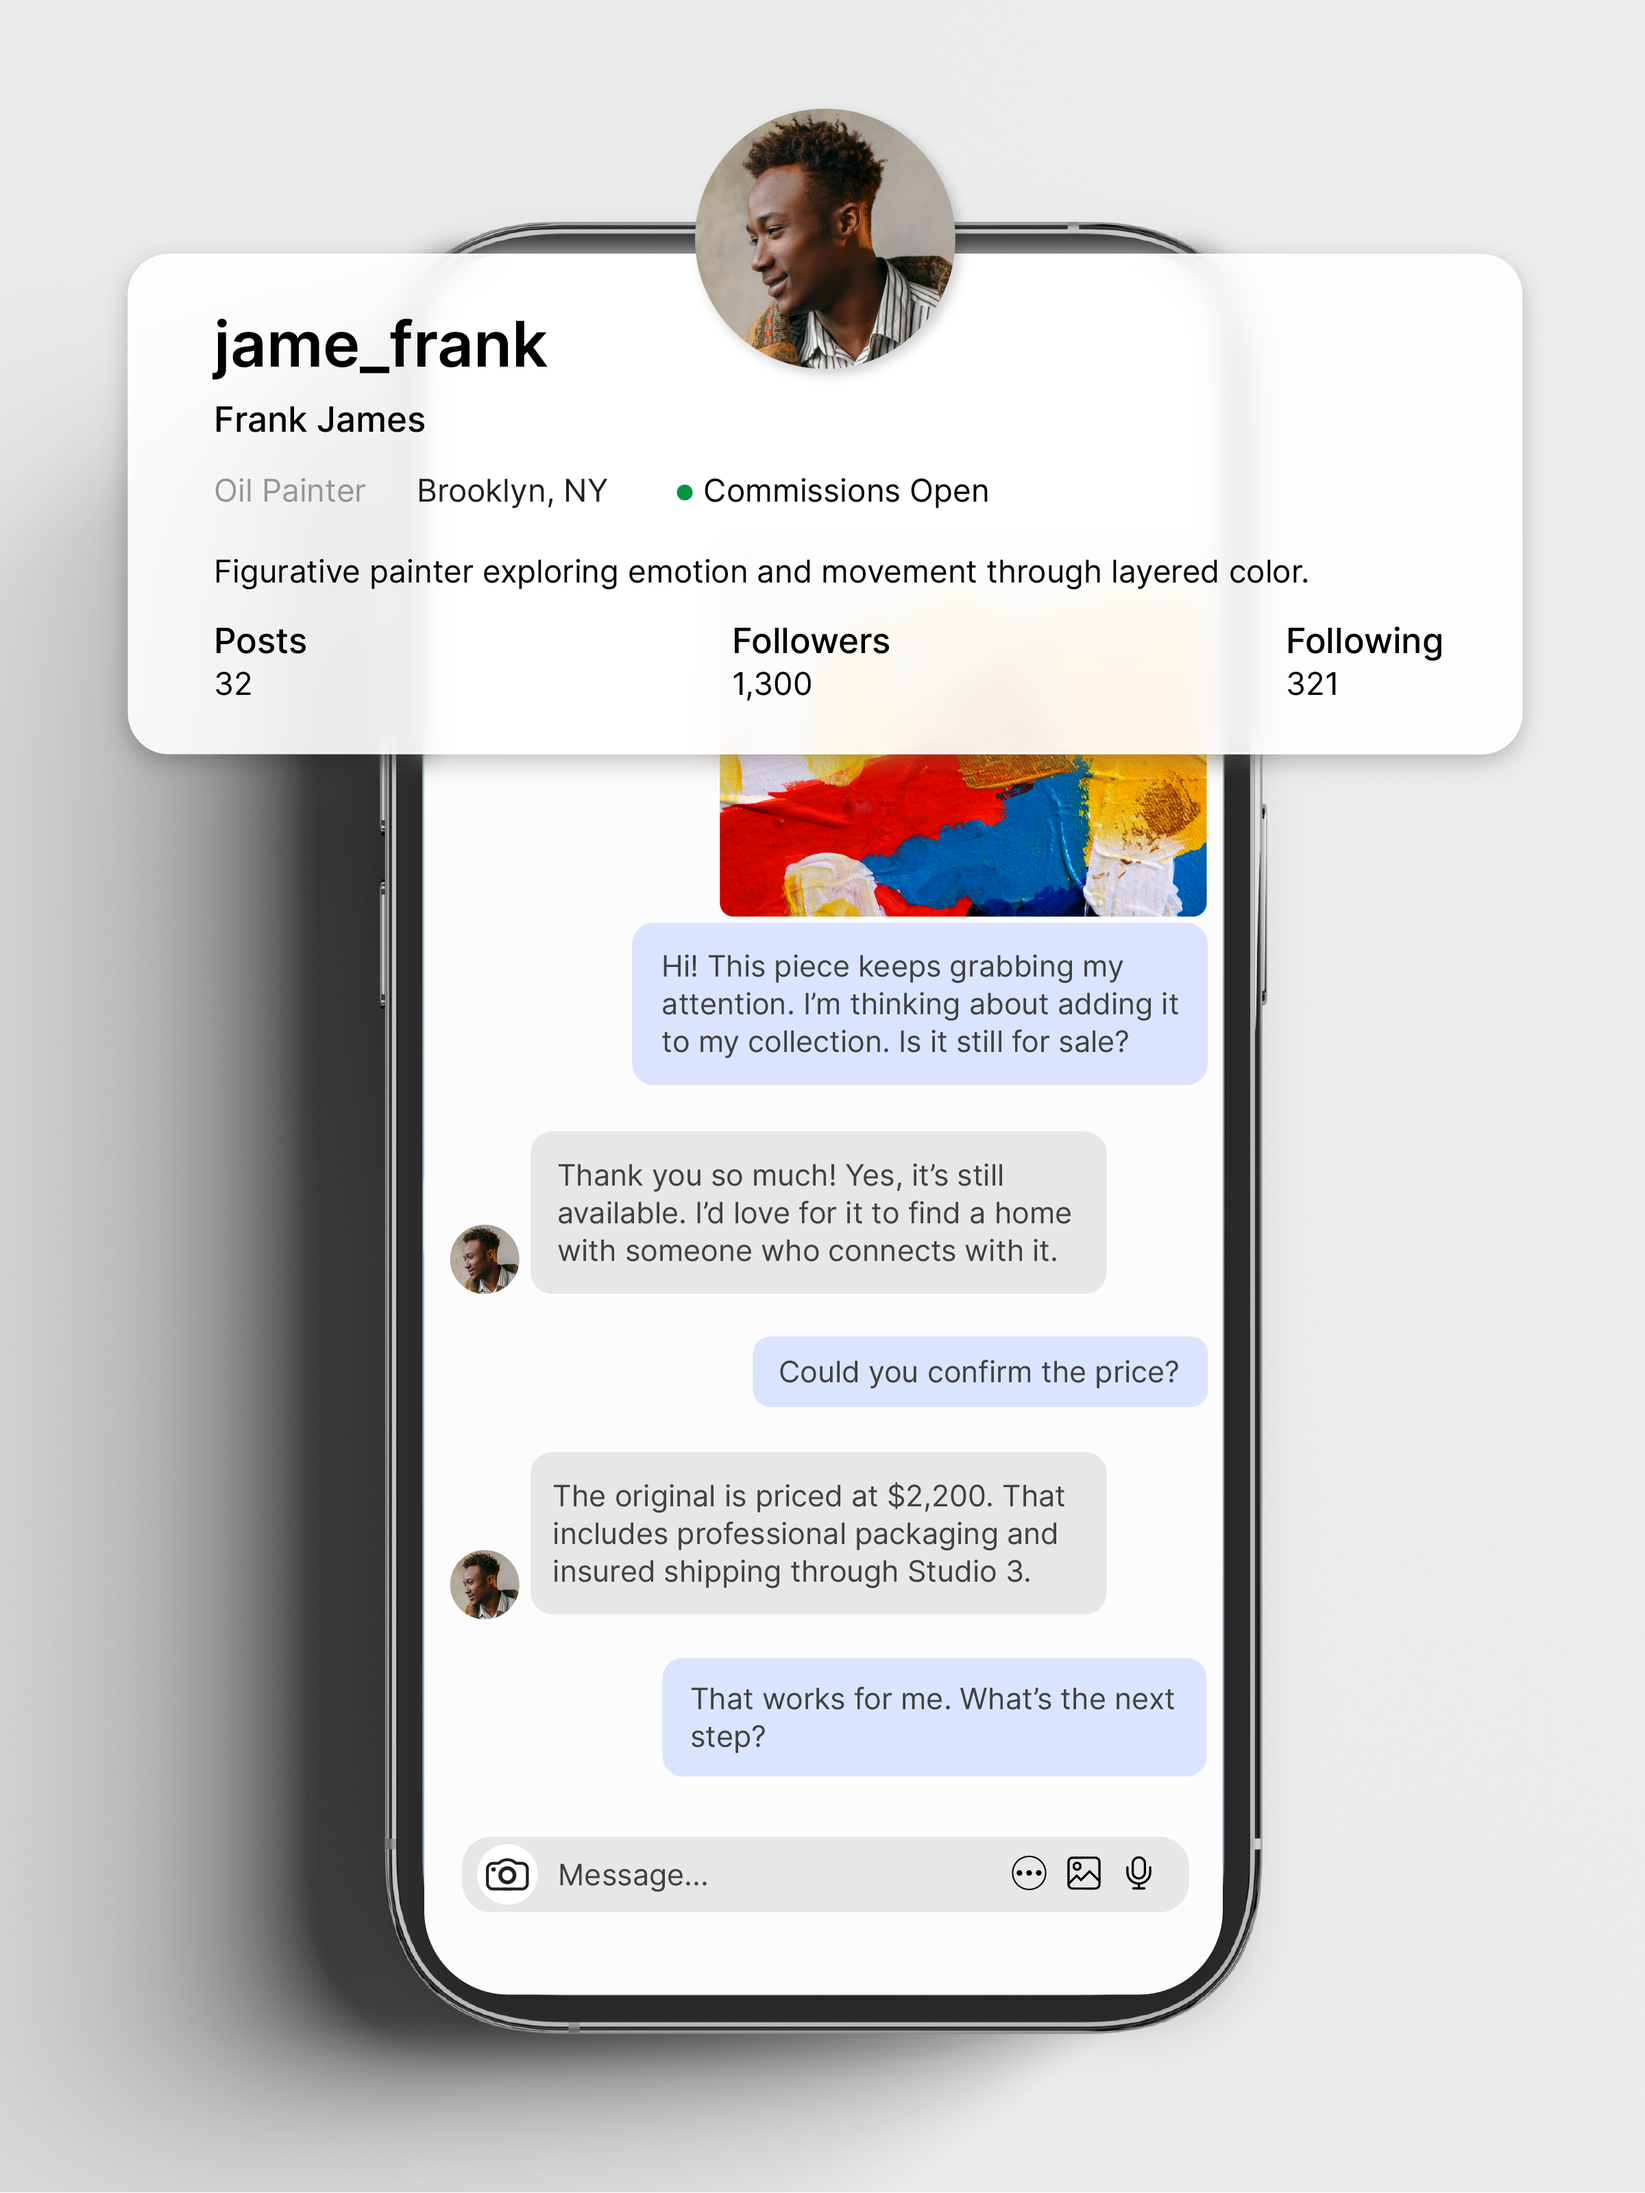
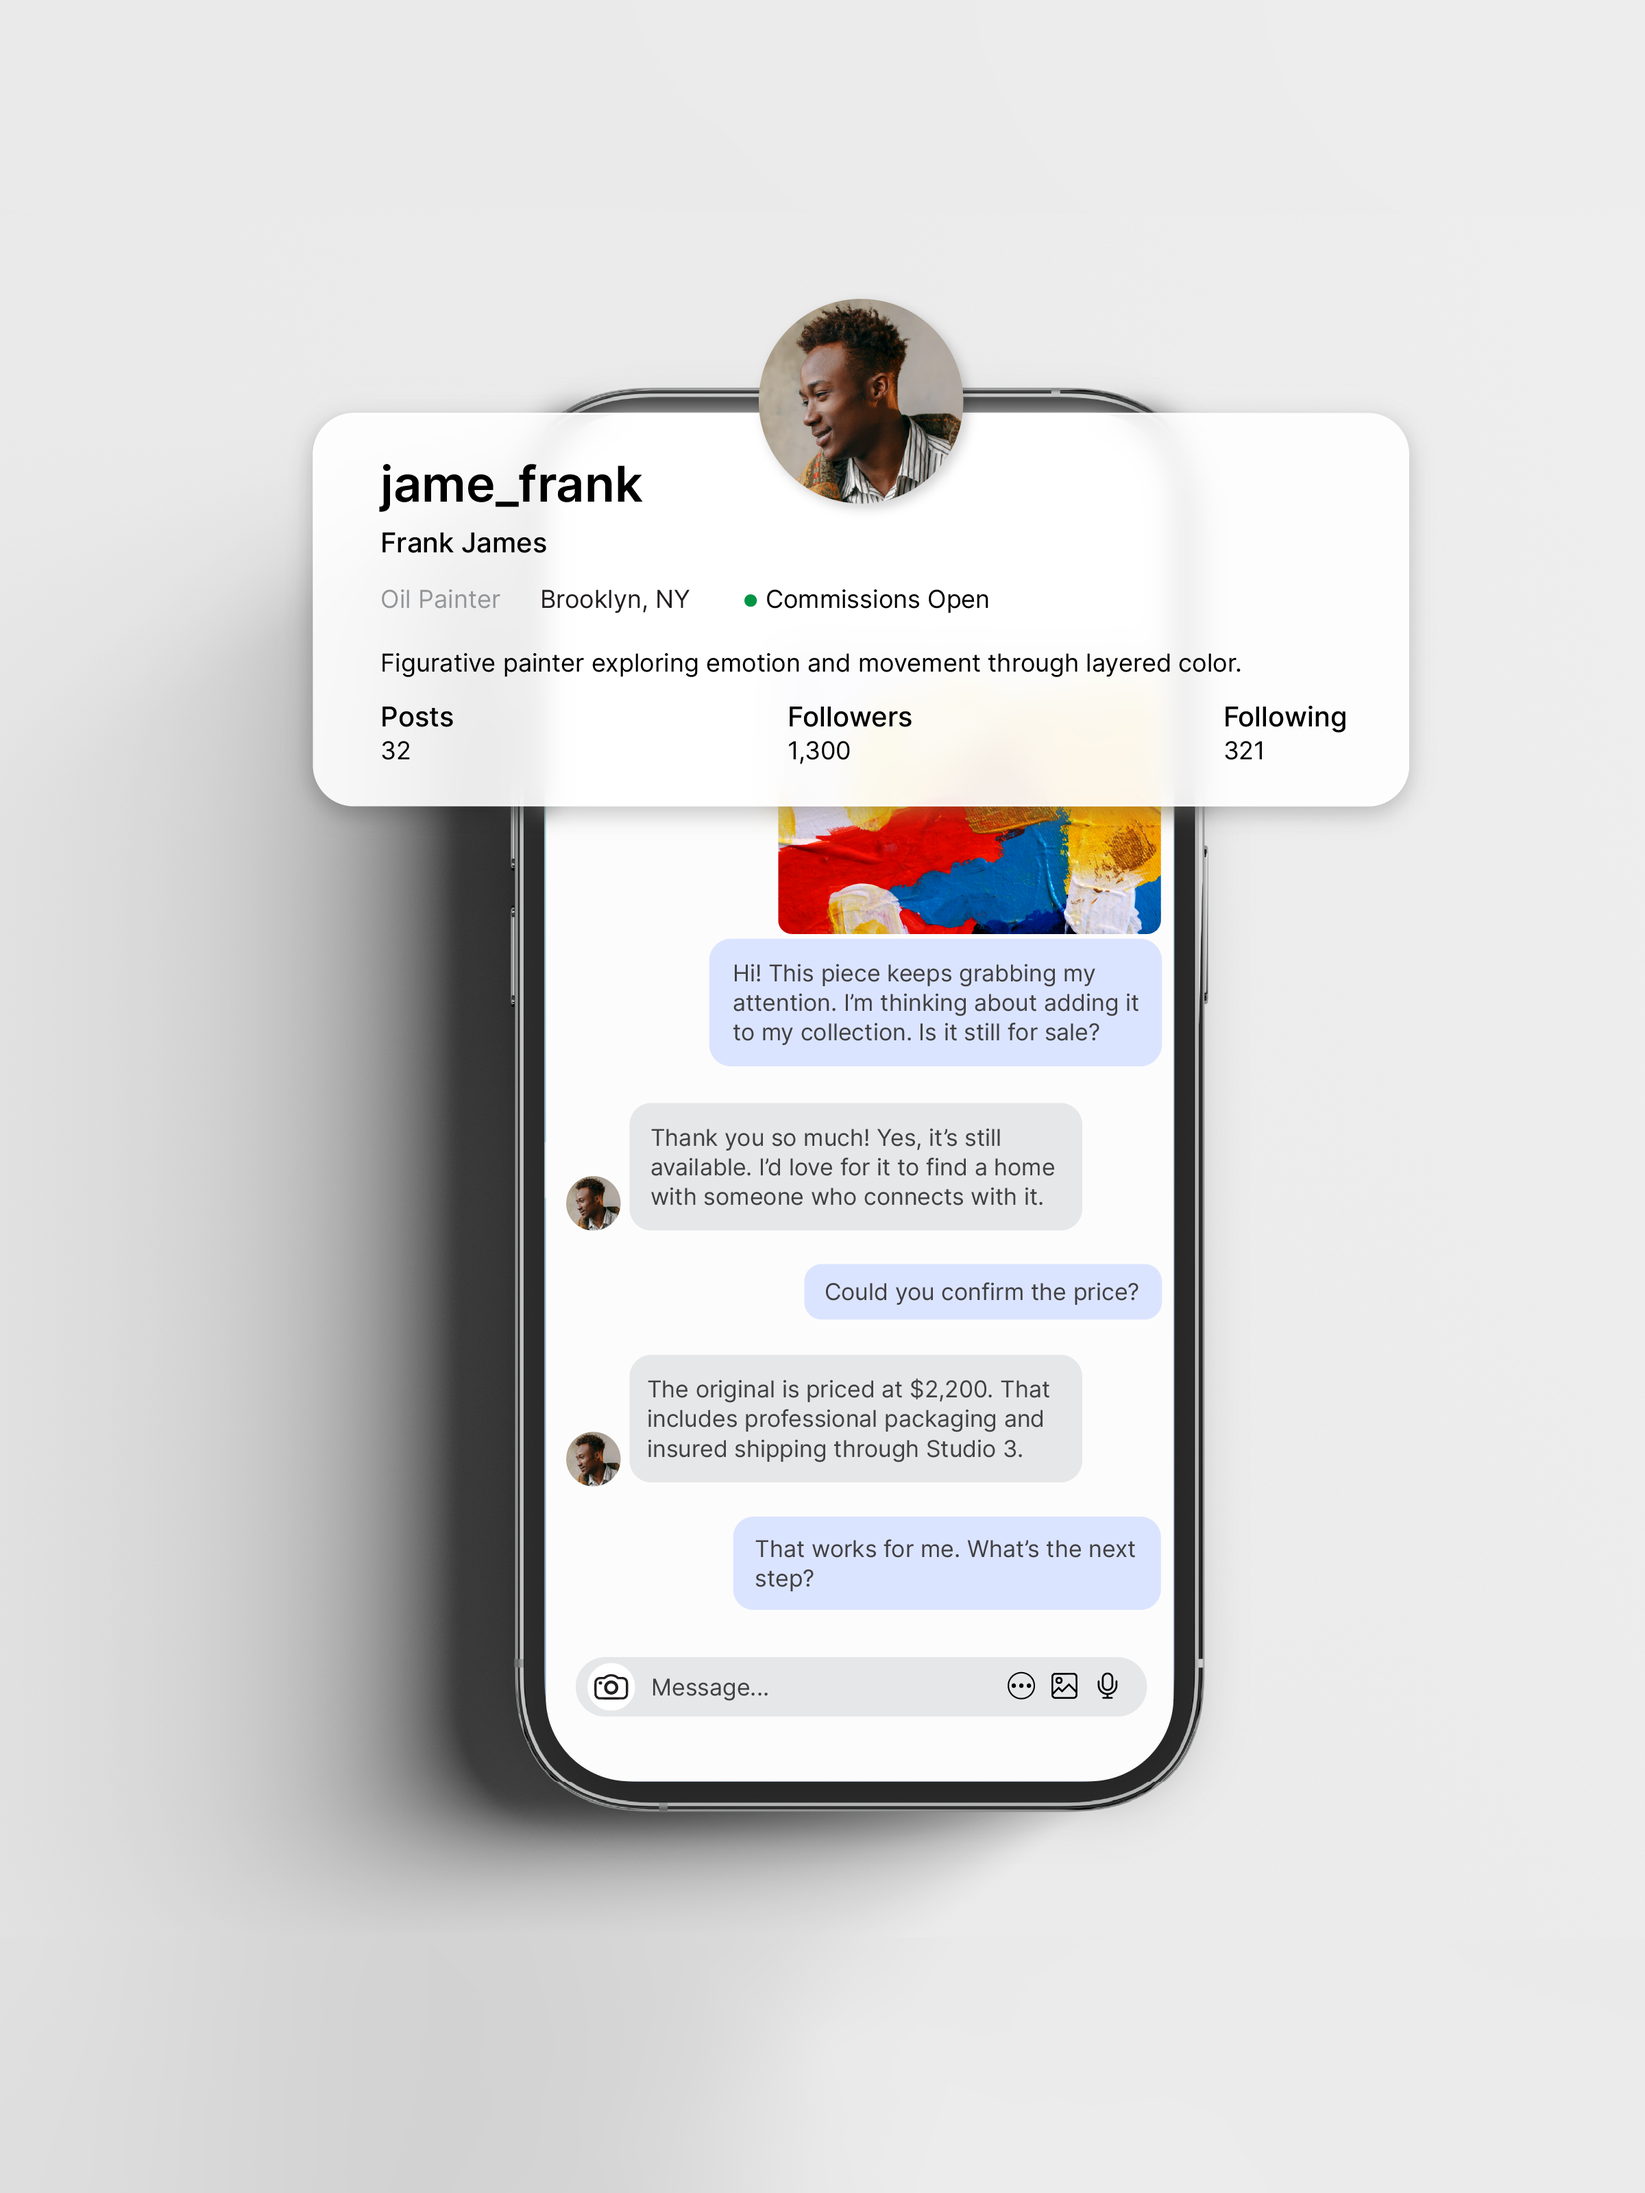
Speed

diff --git a/src/components/HeroNew.jsx b/src/components/HeroNew.jsx
@@ -72,7 +72,7 @@ const HeroNew = () => {
     if (!marquee) return;
 
     const animate = () => {
-      positionRef.current -= 1; // Speed of movement (pixels per frame)
+      positionRef.current -= 0.5; // Speed of movement (pixels per frame) - reduced for slower animation
       
       // Get the width of one image set (first child)
       const firstSet = marquee.children[0];
@@ -108,7 +108,7 @@ const HeroNew = () => {
     if (!mobileMarquee) return;
 
     const animate = () => {
-      mobilePositionRef.current -= 1; // Speed of movement (pixels per frame)
+      mobilePositionRef.current -= 0.5; // Speed of movement (pixels per frame) - reduced for slower animation
       
       // Get the width of one image set (first child - the flex-shrink-0 container)
       const firstSet = mobileMarquee.children[0];
